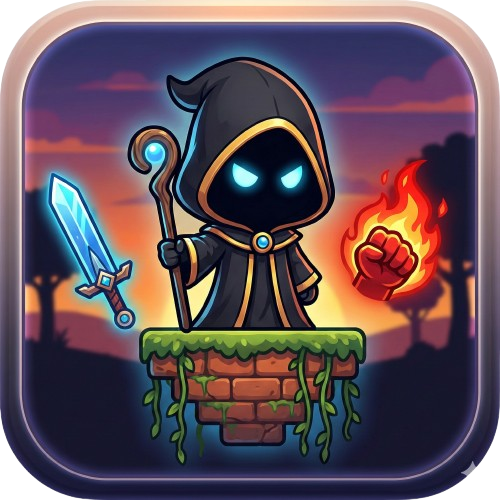
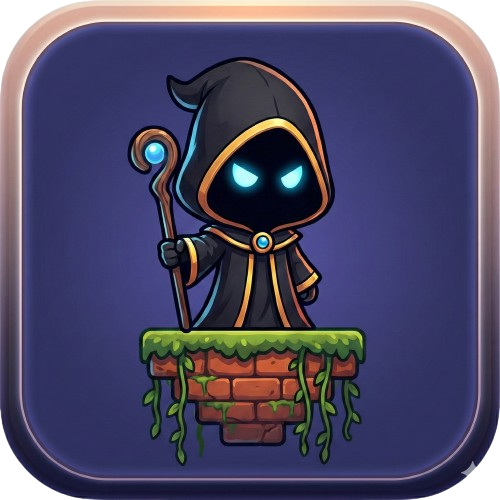
feat: ゲームUIの解像度対応とパラメータ調整
詳細:
- `BattleField` クラスでゲームフィールドのデフォルト解像度を`1280x720`に更新し、地面位置計算を変更。
- `GameCharacter` クラスで攻撃範囲や近接攻撃設定(`DEFAULT_*`定数)を見直し、値をリアルに調整。
- `GamePanel` クラスで描画解像度を`1280x720`に統一し、対応する情報表示領域を調整。
- 移動入力で矢印キー対応を削除し、`WASD`操作のみに簡略化。
- シフトキーによる防御アクションのキーバインド設定を修正し、一貫性を強化。
- 使用されていないキー関連のバインドロジックを整理し、コードを簡潔化。
- リソースアイコンファイルを更新。

diff --git a/src/client/view/GamePanel.java b/src/client/view/GamePanel.java
@@ -28,8 +28,8 @@ import java.util.Objects;
  */
 public class GamePanel extends BaseBackgroundPanel {
 	// --------------- クラス定数 ---------------
-	private static final int SCREEN_WIDTH = 1000;
-	private static final int SCREEN_HEIGHT = 520;
+	private static final int SCREEN_WIDTH = 1280;
+	private static final int SCREEN_HEIGHT = 720;
 	private static final int INFO_HEIGHT = 160;
 	private static final int SCREEN_PADDING = 32;
 	private static final int INFO_PADDING = 24;
@@ -256,22 +256,6 @@ public class GamePanel extends BaseBackgroundPanel {
 	}
 
 	private void setupKeyBindings() {
-		bindKey(KeyStroke.getKeyStroke(KeyEvent.VK_LEFT, 0, false), "move_left_arrow", () -> {
-			leftKeyDown = true;
-			recordLocalMove(-1);
-			if (moveLeftAction != null) moveLeftAction.run();
-		});
-		bindKey(KeyStroke.getKeyStroke(KeyEvent.VK_LEFT, 0, true), "move_left_arrow_release", () -> leftKeyDown = false);
-		bindKey(KeyStroke.getKeyStroke(KeyEvent.VK_RIGHT, 0, false), "move_right_arrow", () -> {
-			rightKeyDown = true;
-			recordLocalMove(1);
-			if (moveRightAction != null) moveRightAction.run();
-		});
-		bindKey(KeyStroke.getKeyStroke(KeyEvent.VK_RIGHT, 0, true), "move_right_arrow_release", () -> rightKeyDown = false);
-		bindKey(KeyStroke.getKeyStroke(KeyEvent.VK_DOWN, 0), "move_down_arrow", () -> {
-			recordLocalMove(0);
-			if (moveDownAction != null) moveDownAction.run();
-		});
 		bindKey(KeyStroke.getKeyStroke(KeyEvent.VK_A, 0, false), "move_left", () -> {
 			leftKeyDown = true;
 			recordLocalMove(-1);
@@ -284,9 +268,6 @@ public class GamePanel extends BaseBackgroundPanel {
 			if (moveRightAction != null) moveRightAction.run();
 		});
 		bindKey(KeyStroke.getKeyStroke(KeyEvent.VK_D, 0, true), "move_right_release", () -> rightKeyDown = false);
-		bindKey(KeyStroke.getKeyStroke(KeyEvent.VK_UP, 0), "jump_arrow", () -> {
-			triggerJump();
-		});
 		bindKey(KeyStroke.getKeyStroke(KeyEvent.VK_W, 0), "jump", () -> {
 			triggerJump();
 		});
@@ -297,10 +278,12 @@ public class GamePanel extends BaseBackgroundPanel {
 		bindKey(KeyStroke.getKeyStroke(KeyEvent.VK_SPACE, 0), "jump", () -> {
 			triggerJump();
 		});
-		bindKey(KeyStroke.getKeyStroke(KeyEvent.VK_SHIFT, 0), "defend", () -> {
+		Runnable defendRunnable = () -> {
 			recordLocalAction(CharacterSprite.Action.DEFEND);
 			if (defendAction != null) defendAction.run();
-		});
+		};
+		bindKey(KeyStroke.getKeyStroke("pressed SHIFT"), "defend", defendRunnable);
+		bindKey(KeyStroke.getKeyStroke("shift pressed SHIFT"), "defend", defendRunnable);
 		bindKey(KeyStroke.getKeyStroke(KeyEvent.VK_ESCAPE, 0), "resign", () -> {
 			if (resignAction != null) resignAction.run();
 		});

diff --git a/src/model/GameCharacter.java b/src/model/GameCharacter.java
@@ -4,11 +4,11 @@ public  abstract class GameCharacter extends Entity {
 	protected static final double DEFAULT_MOVE_STEP = 6.0;
 	protected static final double DEFAULT_JUMP_VELOCITY = 14.0;
 	protected static final double DEFAULT_PROJECTILE_SPEED = 9.0;
-	protected static final double DEFAULT_ARROW_RANGE = 100.0;
-	protected static final double DEFAULT_MAGIC_RANGE = 100.0;
-	protected static final double DEFAULT_MELEE_WIDTH = 30.0;
-	protected static final double DEFAULT_MELEE_HEIGHT = 30.0;
-	protected static final double DEFAULT_MELEE_OFFSET = 30.0;
+	protected static final double DEFAULT_ARROW_RANGE = 520.0;
+	protected static final double DEFAULT_MAGIC_RANGE = 560.0;
+	protected static final double DEFAULT_MELEE_WIDTH = 180.0;
+	protected static final double DEFAULT_MELEE_HEIGHT = 70.0;
+	protected static final double DEFAULT_MELEE_OFFSET = 60.0;
 	protected static final int DEFAULT_MELEE_LIFETIME_TICKS = 2;
 	protected static final long DEFAULT_MAX_CHARGE_MS = 1200;
 	protected static final double DEFAULT_MAX_CHARGE_MULTIPLIER = 2.5;

diff --git a/src/server/model/BattleField.java b/src/server/model/BattleField.java
@@ -9,9 +9,9 @@ import java.util.Iterator;
 import java.util.List;
 
 public final class BattleField {
-	public static final int DEFAULT_WIDTH = 1200;
-	public static final int DEFAULT_HEIGHT = 640;
-	public static final double DEFAULT_GROUND_Y = DEFAULT_HEIGHT * 0.2;
+public static final int DEFAULT_WIDTH = 1280;
+public static final int DEFAULT_HEIGHT = 720;
+public static final double DEFAULT_GROUND_Y = DEFAULT_HEIGHT * 0.36;
 	private final List<Entity> entities = new ArrayList<>();
 	private final int width;
 	private final int height;
